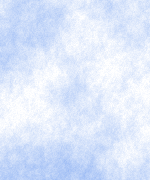
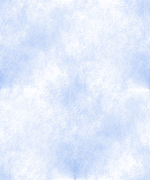
Use a picture for the background and clean a little the edje theme

diff --git a/src/gui.c b/src/gui.c
@@ -211,7 +211,7 @@ _pause(void *data __UNUSED__, Evas_Object *obj __UNUSED__,
 Eina_Bool
 gui(char *theme, Eina_Bool fullscreen)
 {
-   Evas_Object *background, *vbox, *toolbar, *hbox, *icon, *bg, *blank, *conform;
+   Evas_Object *background, *vbox, *toolbar, *hbox, *icon, *blank, *conform;
    int x, y;
 
    /* get the edje theme file */
@@ -246,6 +246,7 @@ gui(char *theme, Eina_Bool fullscreen)
 
    /* add a background */
    background = elm_bg_add(game.ui.window);
+   elm_bg_file_set(background, game.edje_file, "bg");
    evas_object_size_hint_weight_set(background, EVAS_HINT_EXPAND,
                                     EVAS_HINT_EXPAND);
    elm_win_resize_object_add(game.ui.window, background);
@@ -313,14 +314,6 @@ gui(char *theme, Eina_Bool fullscreen)
                                    EVAS_HINT_FILL);
    elm_box_pack_end(vbox, game.ui.table);
    evas_object_show(game.ui.table);
-
-   /* white background to ensure consistent look */
-   bg = elm_layout_add(game.ui.window);
-   elm_layout_file_set(bg, game.edje_file, "white-bg");
-   evas_object_size_hint_weight_set(bg, EVAS_HINT_EXPAND, EVAS_HINT_EXPAND);
-   evas_object_size_hint_align_set(bg, EVAS_HINT_FILL, EVAS_HINT_FILL);
-   elm_table_pack(game.ui.table, bg, 0, 0, SIZE_X+2, SIZE_Y+2);
-   evas_object_show(bg);
 
    /* add a nice border around the board */
    for (x = 1; x < SIZE_X + 1; x++)
